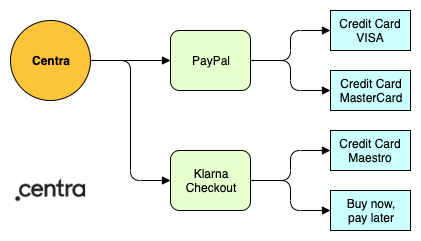
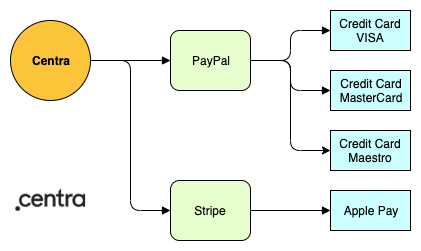
PSP configurations update

diff --git a/user/pages/04.guides/06.payments/01.payment-providers/docs.md b/user/pages/04.guides/06.payments/01.payment-providers/docs.md
@@ -6,7 +6,31 @@ taxonomy:
   category: docs
 ---
 
-Centra does not integrate directly with any payment methods (like Mastercard). Instead, Centra integrates with Payment Service Providers (PSPs), who in turn integrates with payment methods. There are two advantages of this approach: as a client of Centra, you can support dozens of payment methods with only one or a few agreements with PSPs, while we at Centra don’t need to maintain integrations with dozens of payment methods. 
+Centra does not integrate directly with any payment methods (like Mastercard). Instead, Centra integrates with Payment Service Providers (PSPs), who in turn integrate with payment methods. There are two advantages of this approach: as a client of Centra, you can support dozens of payment methods with only one or a few agreements with PSPs, while we at Centra don’t need to maintain integrations with dozens of payment methods. 
+
+### Common PSP configurations
+
+#### Scenario 1 - single PSP (recommended)
+
+![](payment-setup1.png)
+
+In many cases it is sufficient to only use one PSP, as long as it covers all payment methods that will be used in your store. For example, PayPal will allow you to accept payments using each of the most popular credit cards or using a bank transfer.
+
+#### Scenario 2 - multiple PSPs (recommended if required)
+
+![](payment-setup2.png)
+
+In case a single PSP does not cover all required payment methods, it is often seen that two or more payment plugins are configured. For example, you can use PayPal to cover card payments, and add Stripe checkout to accept Apple Pay payments as well.
+
+#### Scenario 3 - PSP in PSP (not recommended unless necessary)
+
+![](payment-setup3.png)
+
+It is possible to configure PyaPal to work internally as an additional payment method inside Klarna Checkout. However, this complex setup is prone to errors, so it is only recommended if forced by contractual agreements with the PSPs.
+
+[notice-box=info]
+Each payment plugin can be restricted to specific Markets, Pricelists or Countries. For example, you can configure separate PayPal plugins for EU and the US, each of them enabled for payment methods popular in those markets.
+[/notice-box]
 
 ### Payment Service Providers and their supported payment methods
 
@@ -26,23 +50,3 @@ Key payment services providers supported by Centra are: Adyen, Klarna, PayPal an
 | BLIK |  |  |  |  |
 | Sofort | ✓ |  |  |  |
 | Ideal NL |  | ✓ |  |  |
-
-### Common PSP configurations
-
-#### Scenario 1 - single PSP
-
-![](payment-setup1.png)
-
-In many cases it is sufficient to only use one PSP, as long as it covers all payment methods that will be used in your store. For example, PayPal will allow you to accept payments using each of the most popular credit cards or using a bank transfer.
-
-#### Scenario 2 - multiple PSPs
-
-![](payment-setup2.png)
-
-In case a single PSP does not cover all required payment methods, it is often seen that two or more payment plugins are configured.
-
-#### Scenario 3 - PSP in PSP
-
-![](payment-setup3.png)
-
-It is possible to configure PyaPal to work internally as an additional payment method inside Klarna Checkout.
